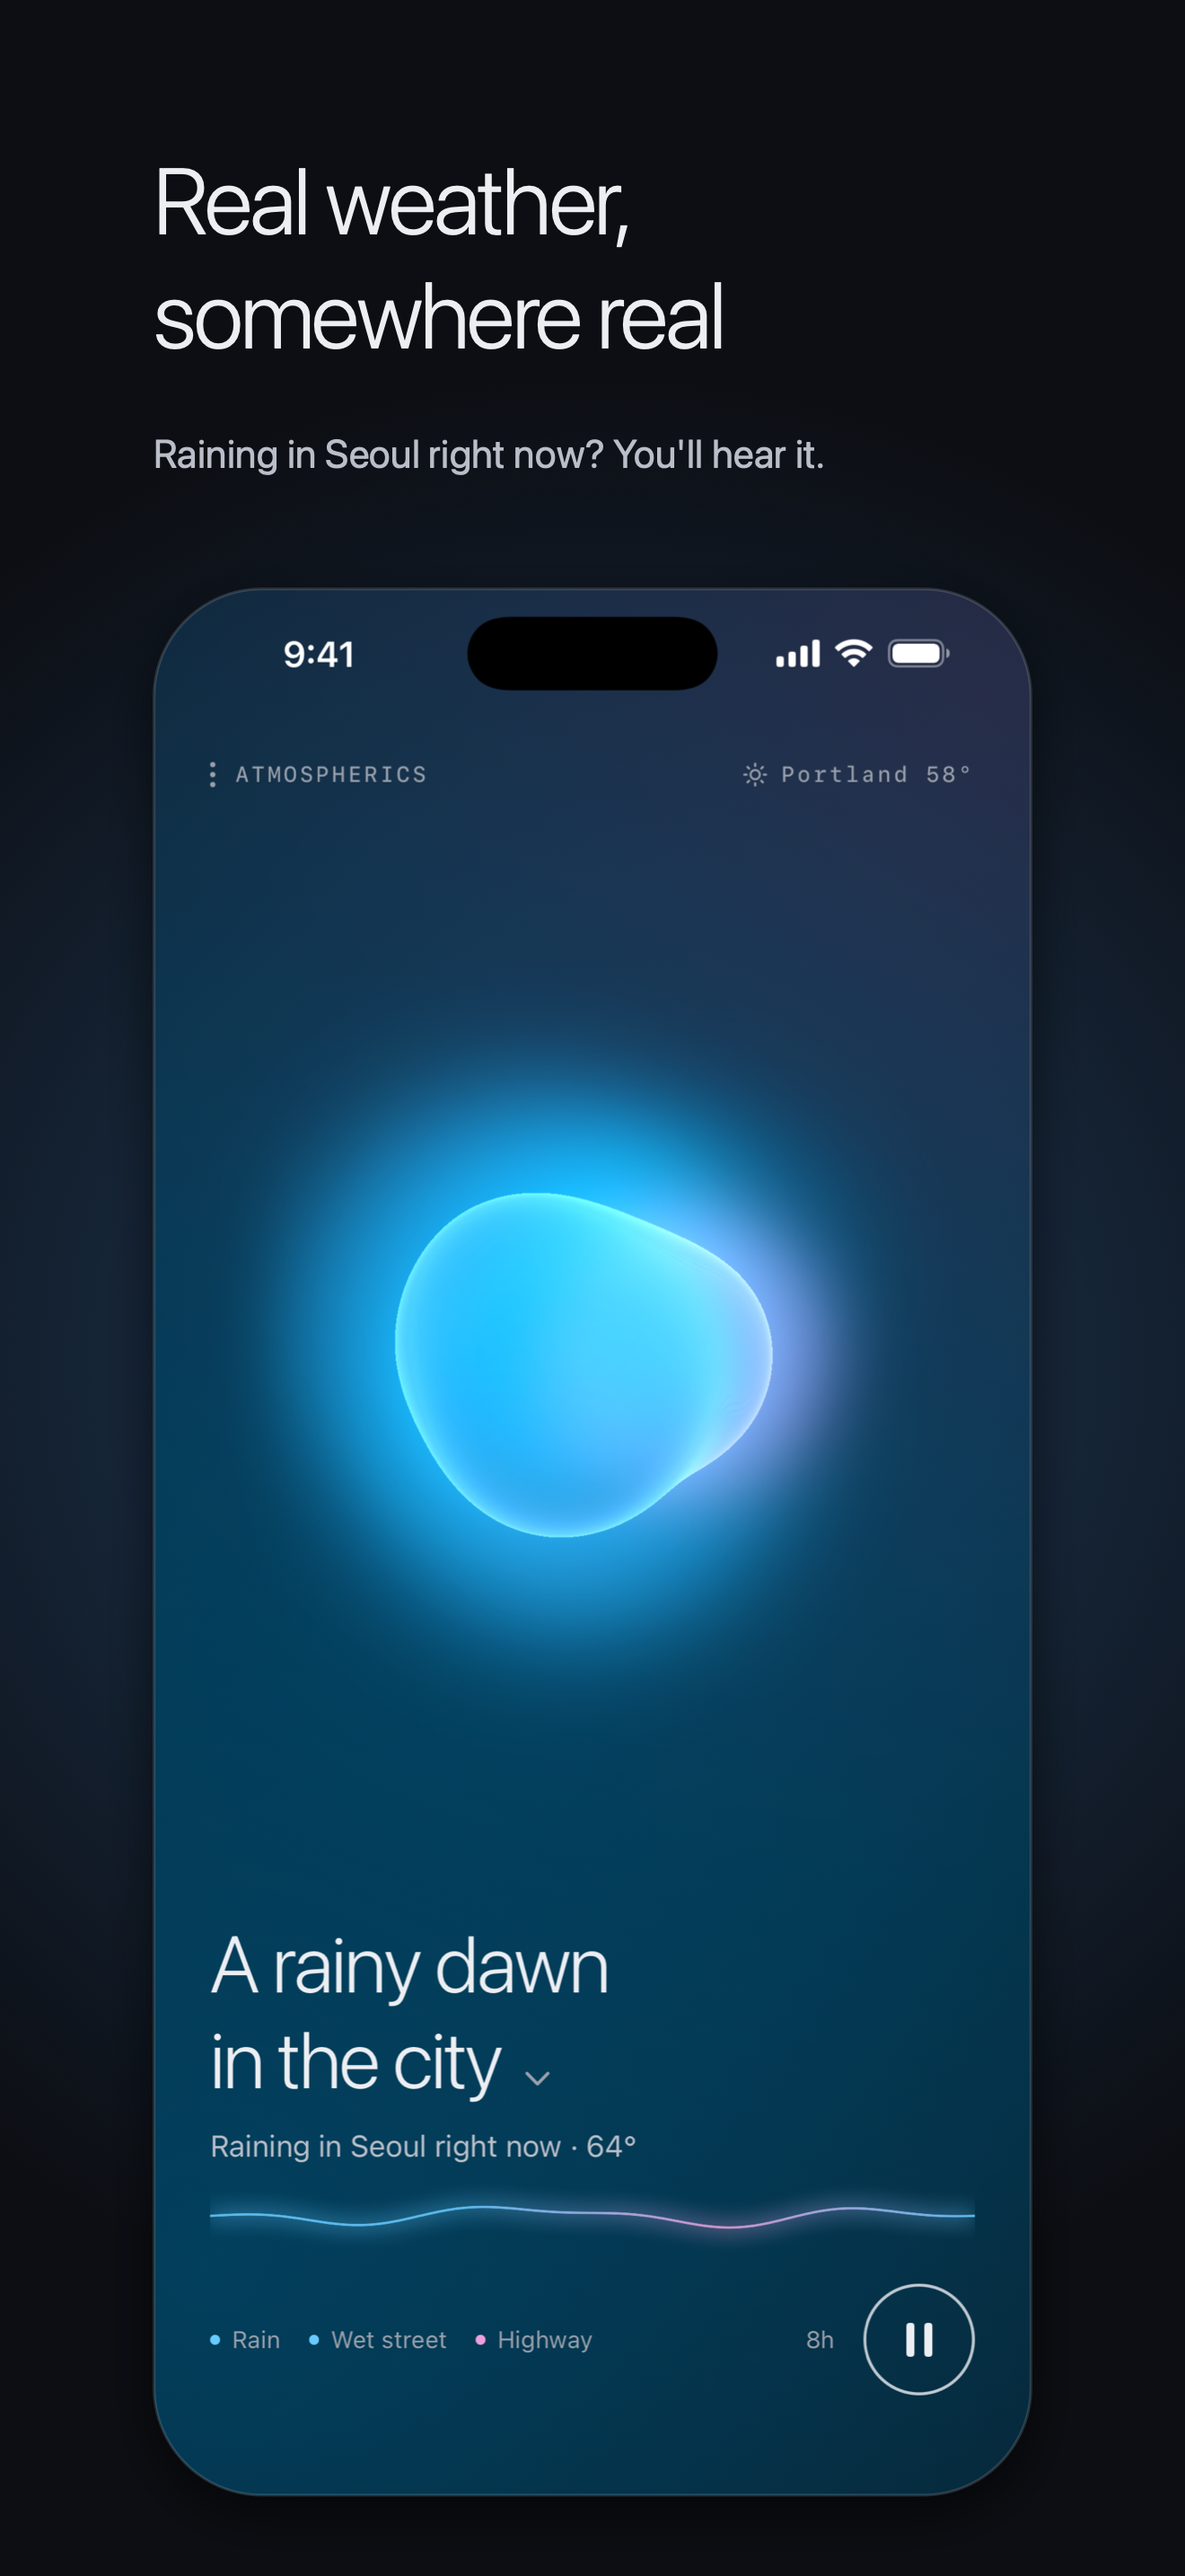
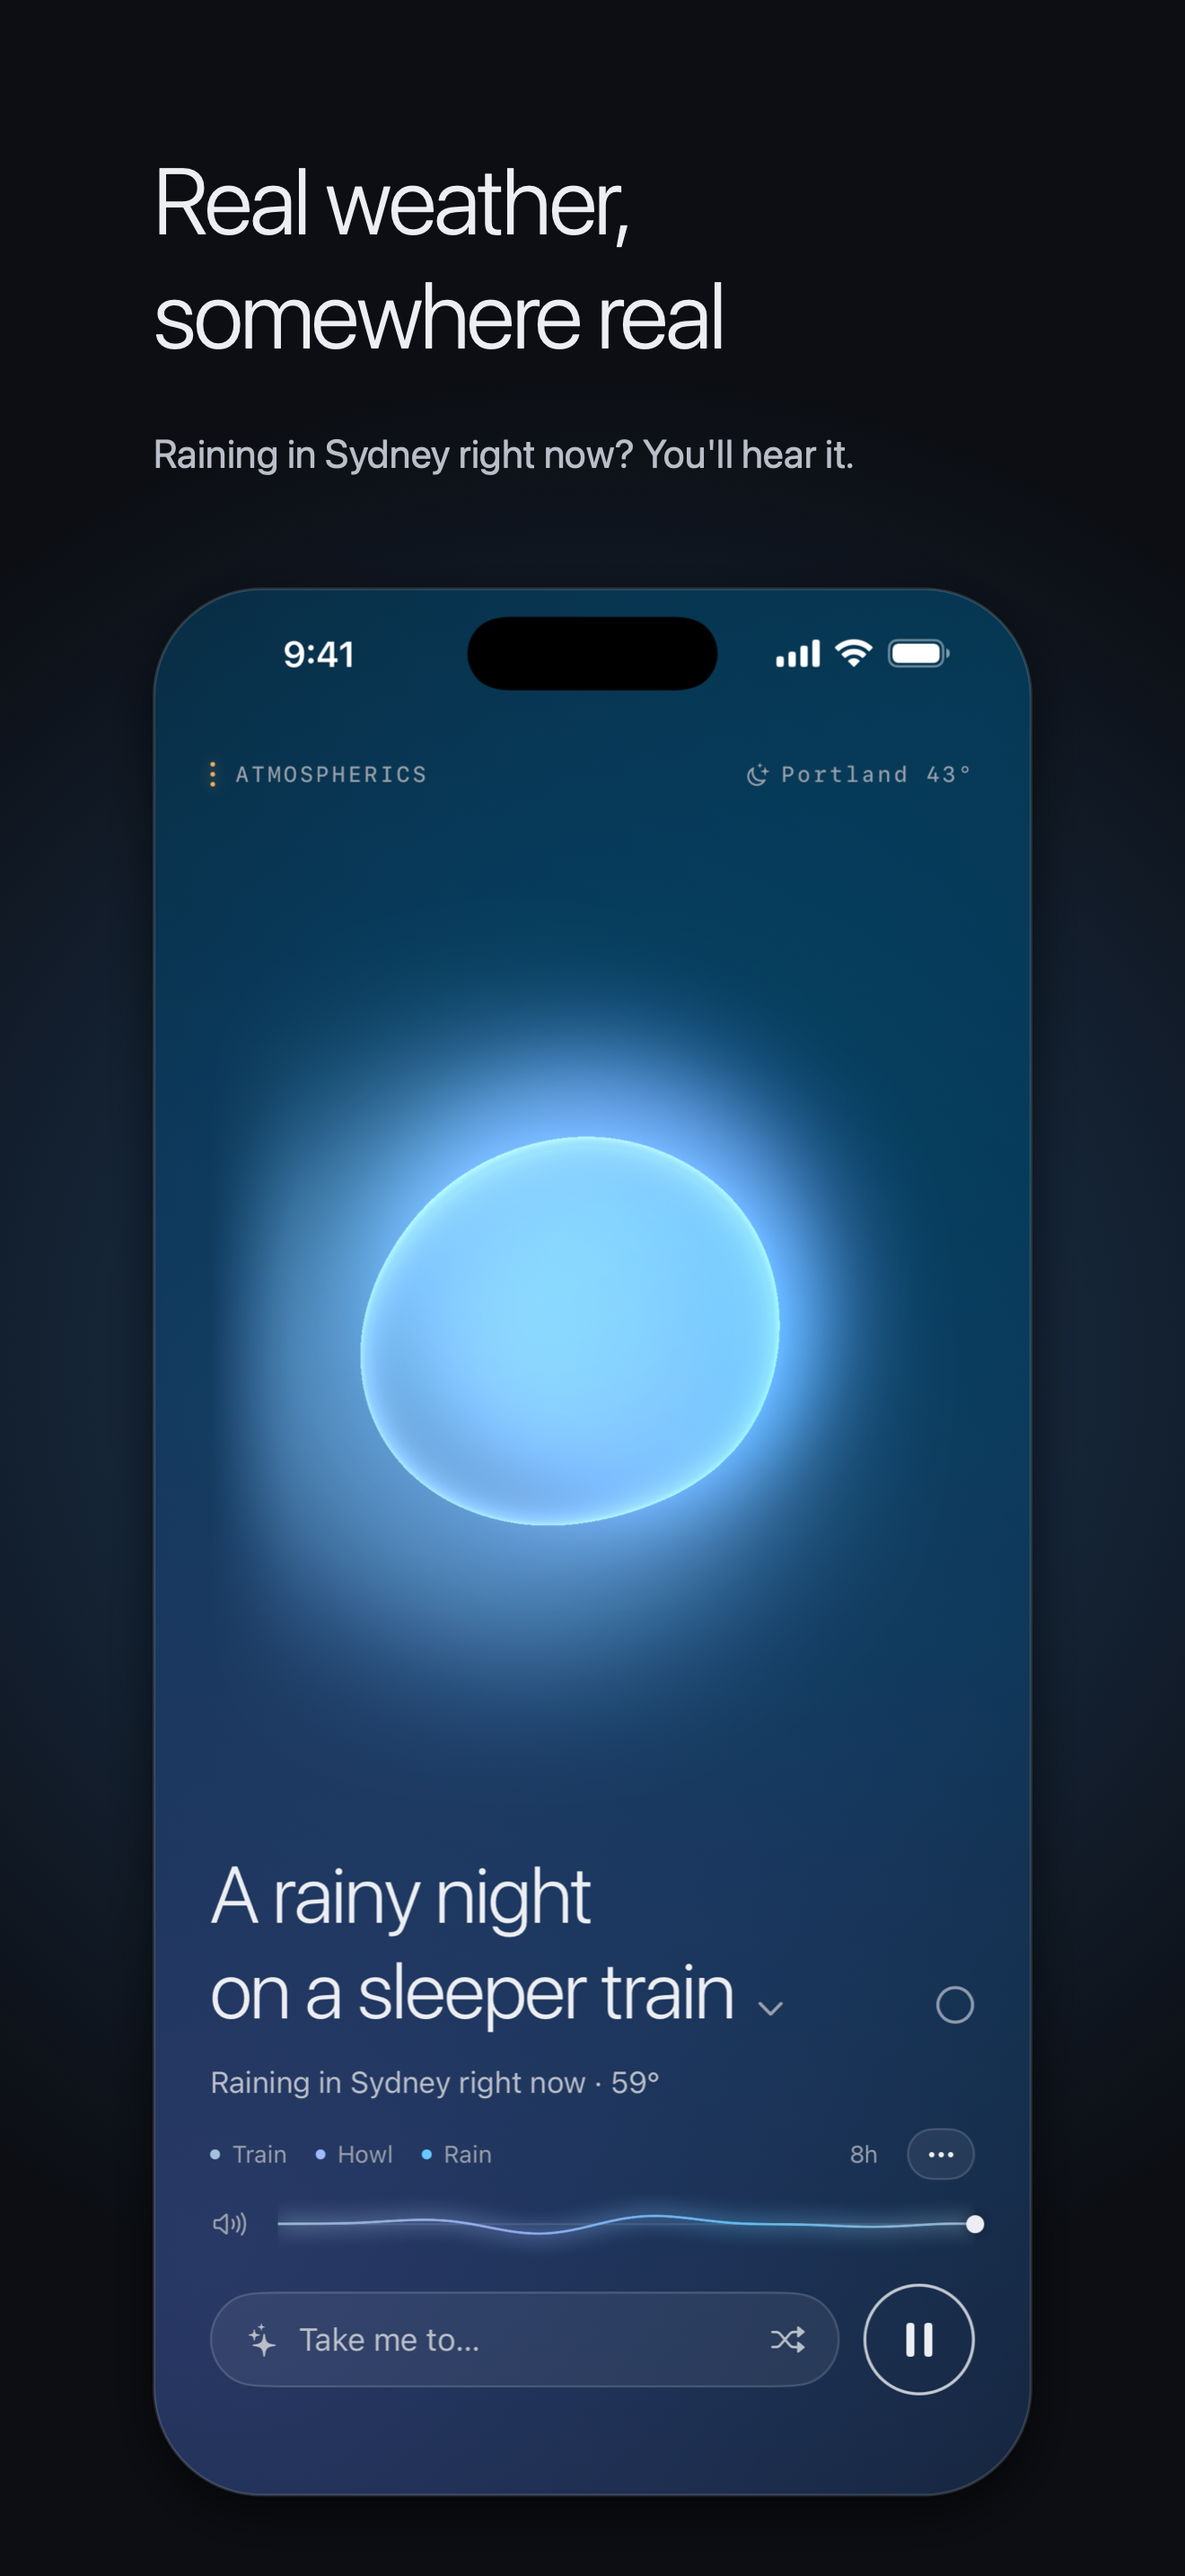
App Store screenshots for iPhone, retaken: the volume line, Take me to…, Layers as levels

Changed region(s): [[0.1242, 0.3724, 0.8386, 0.993], [0.5902, 0.2172, 0.8697, 0.3724], [0.2795, 0.1552, 0.7144, 0.1862]]

diff --git a/design/screenshots/compose.swift b/design/screenshots/compose.swift
@@ -10,9 +10,9 @@ let W: CGFloat = 1320, H: CGFloat = 2868
 let shots: [(file: String, title: String, sub: String, glow: NSColor)] = [
     ("1-cabin", "Teleport\nby sound", "A log cabin in a snowstorm, the fire going.", NSColor(srgbRed: 0.85, green: 0.45, blue: 0.3, alpha: 1)),
     ("2-teleport", "Take me\nanywhere", "Build a scene in a sentence, or say it.", NSColor(srgbRed: 0.75, green: 0.38, blue: 0.3, alpha: 1)),
-    ("3-live", "Real weather,\nsomewhere real", "Raining in Seoul right now? You'll hear it.", NSColor(srgbRed: 0.25, green: 0.55, blue: 0.85, alpha: 1)),
+    ("3-live", "Real weather,\nsomewhere real", "Raining in Sydney right now? You'll hear it.", NSColor(srgbRed: 0.25, green: 0.55, blue: 0.85, alpha: 1)),
     ("4-storm", "Any weather,\nany hour", "A tent in a thunderstorm, the woods close by.", NSColor(srgbRed: 0.25, green: 0.6, blue: 0.75, alpha: 1)),
-    ("5-layers", "A landscape of\nwhat you hear", "Drag a sound closer to hear more.", NSColor(srgbRed: 0.3, green: 0.65, blue: 0.55, alpha: 1)),
+    ("5-layers", "Every sound,\nyour level", "Tap or drag across a layer to set it.", NSColor(srgbRed: 0.3, green: 0.65, blue: 0.55, alpha: 1)),
     ("6-library", "Mixes for sleep,\nfocus and calm", "With a sleep timer up to 8 hours.", NSColor(srgbRed: 0.5, green: 0.45, blue: 0.85, alpha: 1)),
 ]
 
